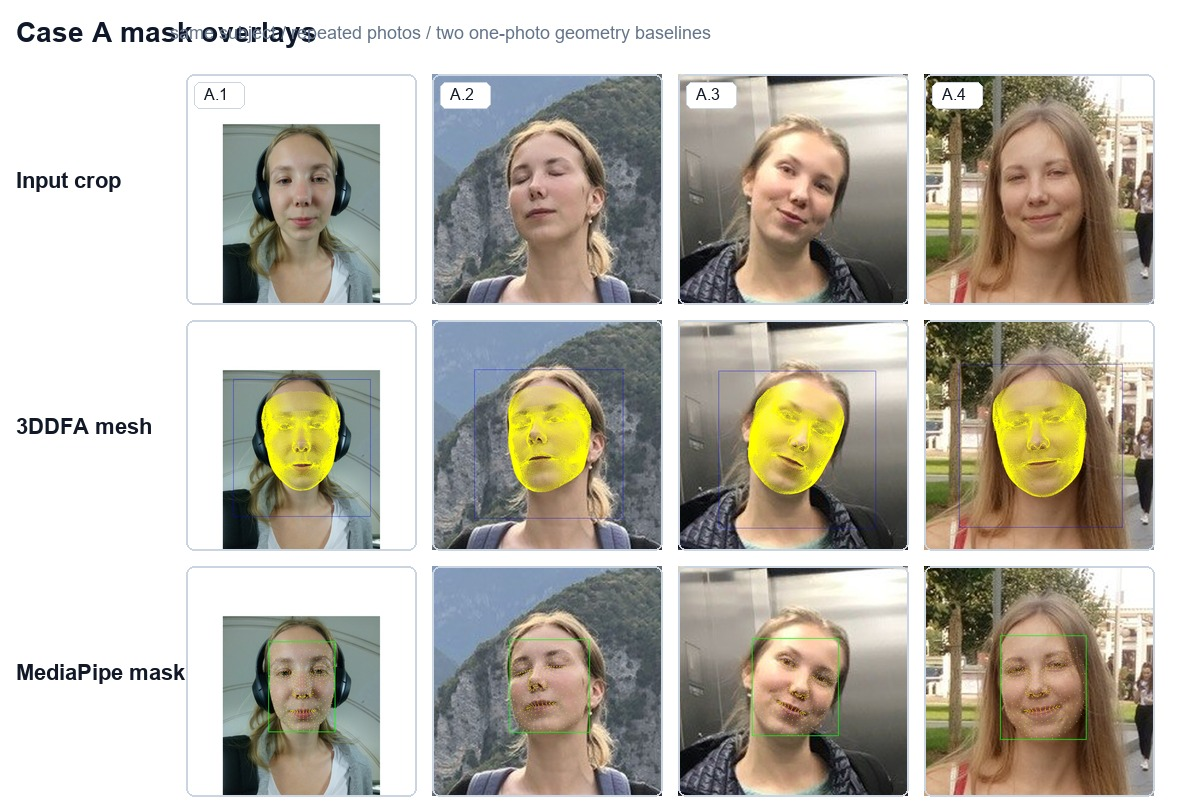
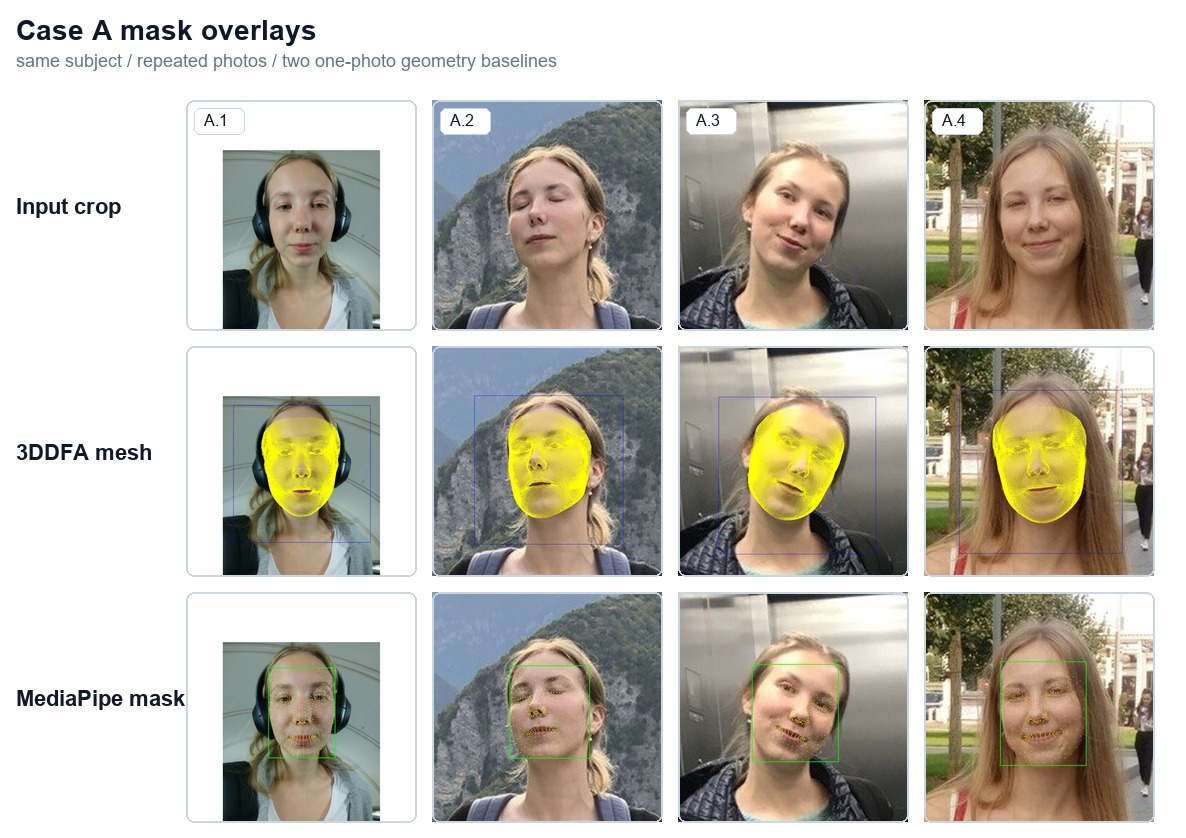
Add current case visuals to README

diff --git a/experiments/avatar_2026/project_page/build_project_page.py b/experiments/avatar_2026/project_page/build_project_page.py
@@ -159,7 +159,7 @@ def make_case_overlay_figure() -> str:
     thumb = (230, 230)
     pad = 16
     label_w = 170
-    header_h = 58
+    header_h = 84
     rows = [
         ("Input crop", lambda crop: crop),
         ("3DDFA mesh", lambda crop: overlay_for_crop(crop, "3ddfa")),
@@ -169,8 +169,13 @@ def make_case_overlay_figure() -> str:
     height = header_h + pad * (len(rows) + 1) + thumb[1] * len(rows)
     canvas = Image.new("RGB", (width, height), "#ffffff")
     draw = ImageDraw.Draw(canvas)
-    draw.text((pad, 16), "Case A mask overlays", fill="#0f172a", font=FONT_28_B)
-    draw.text((label_w, 22), "same subject / repeated photos / two one-photo geometry baselines", fill="#64748b", font=FONT_18)
+    draw.text((pad, 14), "Case A mask overlays", fill="#0f172a", font=FONT_28_B)
+    draw.text(
+        (pad, 50),
+        "same subject / repeated photos / two one-photo geometry baselines",
+        fill="#64748b",
+        font=FONT_18,
+    )
 
     for row_idx, (label, get_path) in enumerate(rows):
         y = header_h + pad + row_idx * (thumb[1] + pad)

diff --git a/README.md b/README.md
@@ -17,6 +17,18 @@ The active project page is:
 
 This page is the clearest current artifact of the project. It frames a single-subject photo/MRI case study and asks whether one-photo facial avatars can be evaluated against an MRI-derived face surface rather than judged only by visual plausibility.
 
+### Current Case Evidence
+
+<p align="center">
+  <img src="experiments/avatar_2026/project_page/assets/case_a_mask_overlays.jpg" alt="Primary case-subject photos with 3DDFA and MediaPipe mask overlays" width="880"/>
+</p>
+<p align="center"><em>Primary case subject: repeated face photographs with 3DDFA and MediaPipe one-photo geometry baselines. These are qualitative alignment diagnostics, not identity-grade avatar results.</em></p>
+
+<p align="center">
+  <img src="experiments/avatar_2026/project_page/assets/mri_alignment_strip.jpg" alt="Photo-derived face geometry aligned to MRI-derived outer-head surface" width="760"/>
+</p>
+<p align="center"><em>MRI bridge: current landmark-constrained alignment preview between photo-derived face geometry and the MRI-derived outer-head surface.</em></p>
+
 Current contribution:
 
 - define a case-only visual project page with no public display of control subjects;
@@ -47,7 +59,8 @@ The repository separates reusable methods from experiment-specific evidence:
 - `scripts/` contains reusable pipeline code.
 - `papers/` contains manuscript and literature context.
 - `experiments/avatar_2026/` contains the current claim-facing avatar case
-  study: public project page, status notes, and metric definitions.
+  study: public project page, curated visual assets, status notes, and metric
+  definitions.
 - `notebooks/` is ignored by git. Notebooks are useful for exploration, but
   they are not treated as the scientific record unless explicitly curated.
 
@@ -155,7 +168,7 @@ See [papers/data/README.md](papers/data/README.md) for full download instruction
 ```text
 faceage-to-brainage/
 |-- experiments/
-|   `-- avatar_2026/       <- curated avatar case study: page, status, metrics
+|   `-- avatar_2026/       <- curated avatar case study: page, visuals, status, metrics
 |-- scripts/
 |   |-- photo_mri_avatar/  <- reusable photo/MRI avatar utilities
 |   |-- gap_correlation.py
